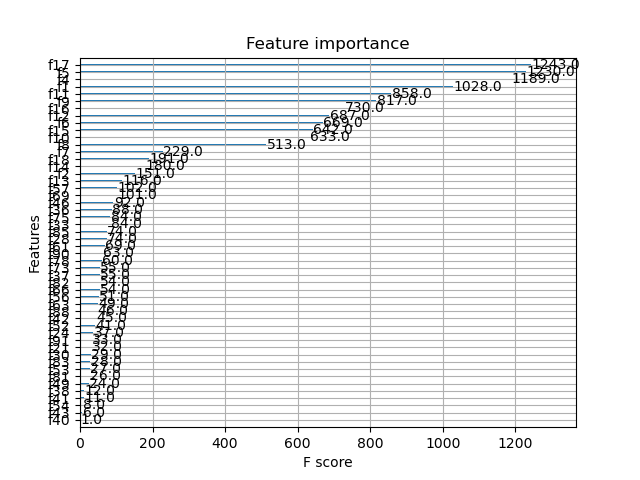
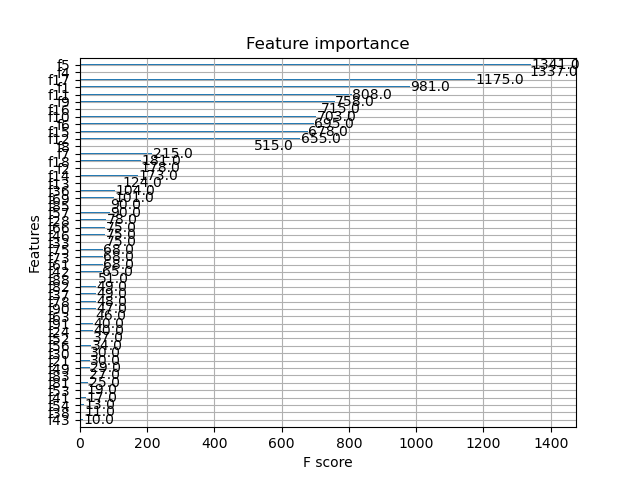
map 'Lat Long' to 'Latitude' and 'Longitude'

diff --git a/final.py b/final.py
@@ -1,4 +1,5 @@
 import os
+import re
 import warnings
 import numpy as np
 import pandas as pd
@@ -32,9 +33,18 @@ def load_data(dir, mode='Train'):
     # load 'population.csv'
     filepath = os.path.join(dir, 'population.csv')
     population = pd.read_csv(filepath)
+    
     # map 'Zip Code' to 'Population'
     df['Population'] = df['Zip Code'].replace(population.set_index('Zip Code')['Population'])
     df = df.drop('Zip Code', axis=1)
+
+    # replace 'Latitude' and 'Longitude' if 'Lat Long' is not nan
+    for index, _ in df.iterrows():
+        if not pd.isnull(df.loc[index, 'Lat Long']):
+            # extract float numbers from string by regular expression
+            latlong = re.findall(r'[-+]?\d*\.\d+|\d+', df.loc[index, 'Lat Long'])
+            df.loc[index, ['Latitude', 'Longitude']]= list(map(float, latlong))
+    df = df.drop('Lat Long', axis=1)
 
     return df
 
@@ -47,7 +57,7 @@ def get_mapper(df):
     for col_name in df.columns:
         if col_name in ['Customer ID', 'Churn Category']:
             continue
-        elif col_name in ['Count', 'Country', 'State', 'City', 'Quarter', 'Lat Long']:
+        elif col_name in ['Count', 'Country', 'State', 'City', 'Quarter']:
             continue
         elif df[col_name].dtypes == 'float64':
             # store the mean
@@ -71,7 +81,7 @@ def preprocess_data(df, mapper):
     for col_name in df.columns:
         if col_name in ['Customer ID', 'Churn Category']: # skip
             continue
-        elif col_name in ['Count', 'Country', 'State', 'City', 'Quarter', 'Lat Long']: # useless features
+        elif col_name in ['Count', 'Country', 'State', 'City', 'Quarter']: # useless features
             df = df.drop(col_name, axis=1)
         elif df[col_name].dtypes == 'float64': # numeric features
             val = mapper[col_name]
